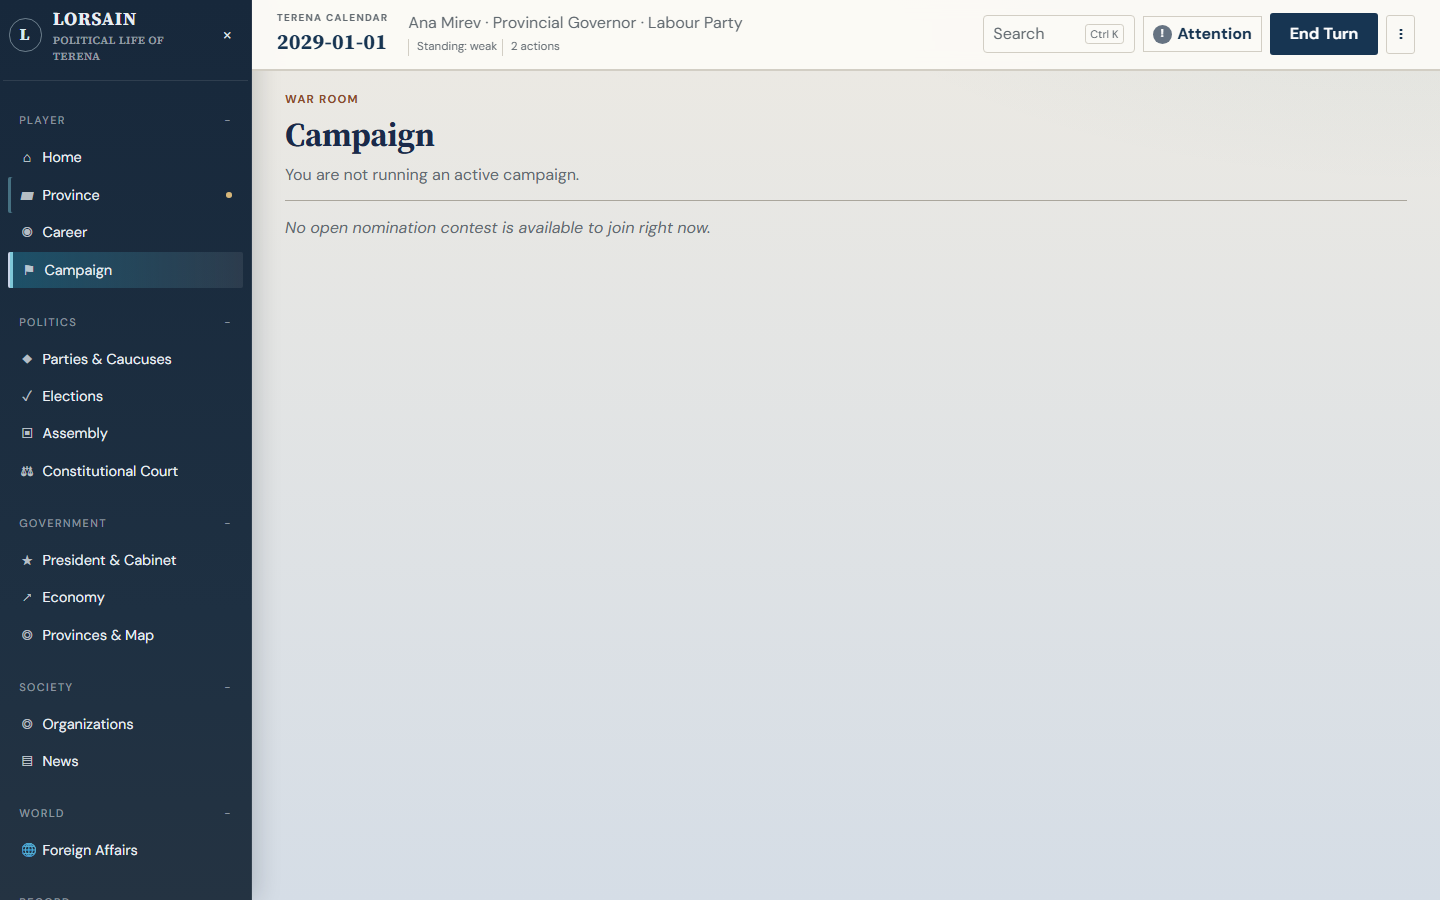
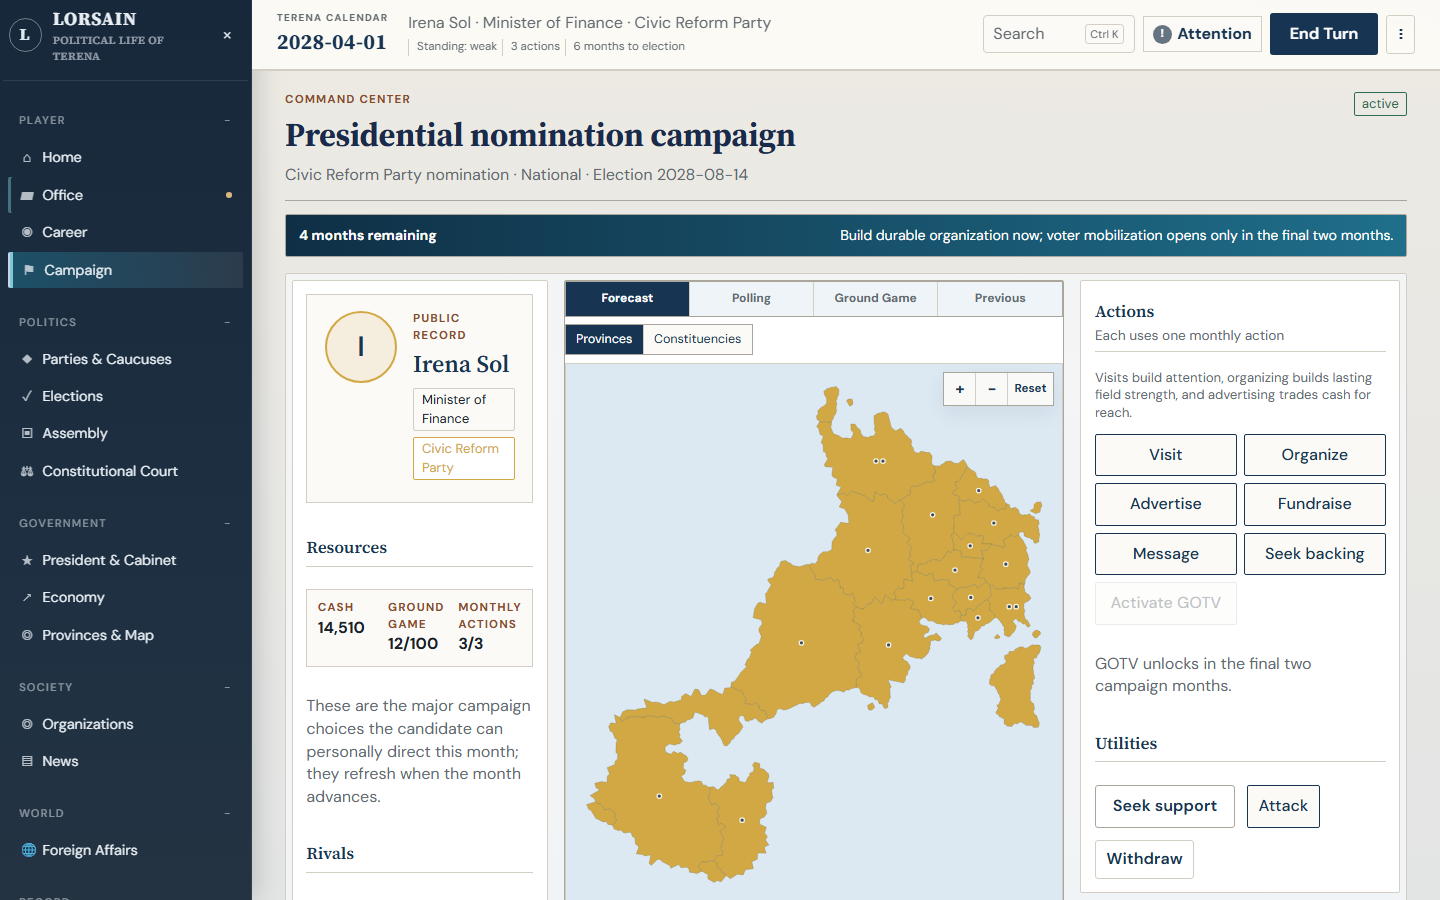
Document Phase 11.4 completion status and refresh truthful QA screenshots.
Record Priority 0-1 progress, keep Phase 11.4 not yet accepted, and replace Campaign/Assembly/Election Night evidence with fixture-backed captures.

diff --git a/docs/PHASE_11_4_RESULTS.md b/docs/PHASE_11_4_RESULTS.md
@@ -1,102 +1,74 @@
-# Phase 11.4 results — Presentation, Content, Flavor & Depth
+# Phase 11.4 completion status
 
 Date: 2026-09-05
 
-## Phase 11.3 status
+## Phase 11.3
 
-**Phase 11.3 remains ACCEPTED.** Sanity gate on entry HEAD `19f32d4` confirmed:
+**ACCEPTED** (unchanged). Functional acceptance remains on the `f817f01` lineage; tip docs may be later.
 
-- clean working tree
-- typecheck / format / lint green
-- `pnpm test:fast` green (pre-change baseline)
-- Pages production architecture preserved (`VITE_BASE_PATH=/Lorsain-project/`)
-- no Phase 11.3 regression blocker found before 11.4 work began
+## Previous Phase 11.4 issues corrected in this pass
 
-No 600-month rerun was performed. Existing `docs/qa/phase11_3/whole_game_final_1x600.json` evidence is retained.
-
-## Goals
-
-Make the already-working Phase 11.3 simulation look, read, and play more like a finished political world:
-
-1. Substantial UI / shell / hierarchy reconstruction
-2. State-aware content depth without engine rewrites
-3. Repetition reduction for headlines, bills, crises, and campaign flavor
-4. Representative validation and documentation
-
-## Major UI changes
-
-- New Terena “political desk” visual identity: cool slate workspace, deep ink navigation, Source Serif 4 + DM Sans, accent teal, paper raised surfaces (moved away from beige intranet cards)
-- Shell v7: branded nav mark, clearer group hierarchy, contextual active rail, calendar-forward top bar
-- Home political desk hero with role-aware briefing strip
-- Campaign HQ presentation pass (map-forward command center framing)
-- Elections hub / Election Night chrome pass
-- News front-page composition (`news-paper`)
-- History Wiki encyclopedia framing (`history-wiki-v7`)
-- Assembly leadership desk emphasis
-- Map contrast / selection polish without changing 11.3 selection contract
-
-## Screens redesigned / substantially improved
-
-| Tier | Screens |
+| Issue | Fix |
 | --- | --- |
-| Tier 1 | Title (identity tokens), Home, Campaign, Elections / Election Night, News, History Wiki |
-| Tier 2 | Assembly, Parties (shell/context), Organizations framing, Courts framing, Economy hierarchy via shared tokens |
-| Tier 3 | Foreign Affairs / secondary polish via shared chrome only |
+| Campaign screenshot showed inactive campaign | Added `active-campaign` QA fixture; capture uses it |
+| Election Night screenshot was same as Elections / certified replay | Added `election-night-partial` fixture with fresh Election Night (`isFreshElectionNight`) |
+| Campaign situations invented debates/rallies/dark-money/doubling | Rewrote titles to state-based framing; removed `debate_moment` |
+| Crisis themes invented border/expulsions/closures | Themes gated to neighbors/sanctions/trade/maritime posture; generic fallback is diplomatic confrontation |
+| Content tests asserted hardcoded strings | Tests now call `headlineFor`, `assignCrisisTheme`, and ban invented wording |
+| Constitution dual UX without shared alternatives | Unified modeled-rule alternatives (4 each) + proposed clause text + red/green diff preview |
+| Assembly leadership hidden behind disclosure | Leadership rail + tighter hemicycle shown simultaneously |
 
-Screenshots: `docs/qa/phase11_4/final/`
+## What is IMPLEMENTED (this completion pass)
 
-## Content systems expanded
+### Correctness / QA
+- Narrative truthfulness pass
+- Real generator tests
+- Active campaign + fresh Election Night fixtures
+- Capture script wired to those fixtures
 
-| System | Change |
-| --- | --- |
-| Provincial legislation | Subjects 5 → 12 with distinct titles/summaries/restrained variants; theme-weighted agendas |
-| Province themes | Explicit themes for all 21 provinces (capital metro, industrial corridor, agrarian, coastal trade, resource, university belt, border) |
-| Media headlines | Payload-aware headlines + recent fingerprint cooldown (max 24) |
-| Courts | Subject-specific federalism / competence question families (no identical “provincial authority” fallback spam) |
-| Campaigns | 8 situation templates wired into NPC monthly loop; debate notable-moment / issue emphasis flavor |
-| Foreign crises | Optional `narrativeTitle` themes (sanctions, border, naval posturing, trade corridor, alliance rupture, expulsion cycle) |
-| Organizations | Issue-aware lobby/endorsement wording and payload labels |
-| Presentation | Campaign situation titles and crisis themes surface in event display / press |
+### Constitution (modeled rules)
+- `CONSTITUTIONAL_LEGAL_VALUES` with 4 options per rule
+- `constitutionAlternatives.ts` clause text + mechanical summaries
+- Proposal stores `proposedText`
+- Unlimited presidential terms (`0`)
+- Diff helper + Assembly Business preview UI
+- Text-only amendments remain only for clauses without `runtime_rule_id` (honest split: modeled vs display text)
 
-## Repetition audit
+### Assembly
+- Chamber stage: hemicycle + leadership rail together
+- Tighter seat packing
+- Leadership seats outlined; click leadership highlights chamber selection
 
-Findings addressed:
+## What remains incomplete (blocks full acceptance)
 
-- Generic “Political developments” / identical provincial-authority court questions / thin provincial bill pool were the main visible repeats
-- Mitigations: headline fingerprints, subject-specific court questions, expanded bill copy, province theme weighting, campaign situation registry, crisis narrative titles
+- Full Constitution document-centric editor (left TOC / center document / right inspector) still uses Assembly Business + Lawbook tabs rather than a dedicated document workspace
+- Free-text vs modeled paths are unified for **modeled rules**, but Lawbook free-text UX is not fully retired as a competing mental model for players
+- Election Night “broadcast mode” / mid-count population fixtures beyond fresh certified first-view
+- Priority 2 political depth expansions (party postmortems, org scorecards, career memory, governing agenda, court precedent, investigations, turn summaries, global search density) are only partially present from earlier 11.4 content work
+- Representative multi-year repetition audit report artifact not yet published as a calibration JSON
 
-Remaining (honest):
+## Determination
 
-- News/History remain template-driven rather than authored encyclopedia prose
-- Some scalar-adjacent legislative options still exist where policy is inherently dimensional
-- Biography depth and tutorial content remain thinner than a finished commercial product
+**Phase 11.4 NOT YET ACCEPTED**
 
-## Tests
+Priority 0 and most Priority 1 structural requirements are landed and tested. Full acceptance waits on deeper Constitution document UX completion and broader Priority 2 political-depth playability, plus fresh reviewed screenshot evidence from the new fixtures on green CI/Pages.
 
-- `packages/sim/src/phase11_4.content.test.ts` (23)
-- Existing media / campaigns suites still green
-- Full `pnpm test:fast`: 430 tests passed
-- Production game build with `VITE_BASE_PATH=/Lorsain-project/` succeeded
+## Feature revert map (this pass)
 
-## Known limitations / deferred
+| Commit | Feature | Safe revert? | Dependencies |
+| --- | --- | --- | --- |
+| `bd667f8` | Narrative truthfulness | Yes | None |
+| `fcb75eb` | Constitution alternatives + eligibility 0 | Mostly; revert with UI commit that consumes exports | `9a0a70d` uses exports |
+| `8192cd5` | QA fixtures | Yes | Capture script |
+| `9a0a70d` | Assembly stage + amendment preview UI | Yes if `fcb75eb` kept or UI imports adjusted | Prefers `fcb75eb` |
 
-| Item | Status |
-| --- | --- |
-| Rich authored newspaper/encyclopedia prose | Partially improved; deeper writing still optional polish |
-| Interactive branching political events beyond existing decision patterns | Bounded situations only — no CK-style engine |
-| Bundle splitting / save compaction / 100×600 soak | Phase 11.5 |
-| Automated visual-diff CI | Phase 11.5 |
+Earlier Phase 11.4 commits (`26e6582`, `cd6694b`, `12f4cdc`, …) remain the foundation visual/content pass.
 
-## Acceptance
+## Docs / evidence locations
 
-Phase 11.4 tip at handoff: see `git rev-parse HEAD` on `main` (docs tip after `12f4cdc` lineage).
-
-Phase 11.4 implementation is complete for this pass when:
-
-- Phase 11.3 remains explicitly ACCEPTED
-- UI identity change is immediately visible
-- Content depth / repetition mitigations are landed and tested
-- working tree clean after commit
-- normal CI and Pages remain green on the Phase 11.4 tip
+- This file: `docs/PHASE_11_4_RESULTS.md` (supersedes prior “accepted” overclaims)
+- Fixtures: `docs/qa/phase11_4/fixtures/`
+- Screenshots: `docs/qa/phase11_4/final/` (regenerate after this tip)
+- Capture: `scripts/phase11_4-capture-screenshots.mjs`
 
 Phase 11.5 has not begun.
